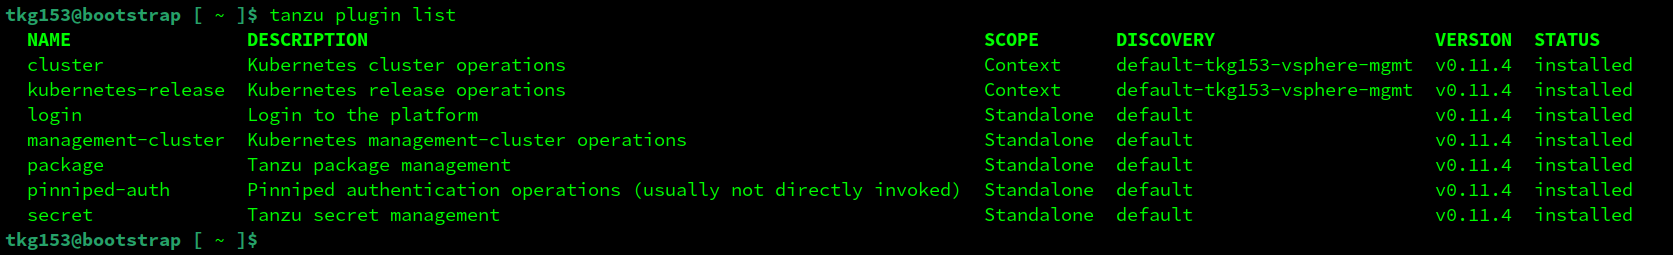
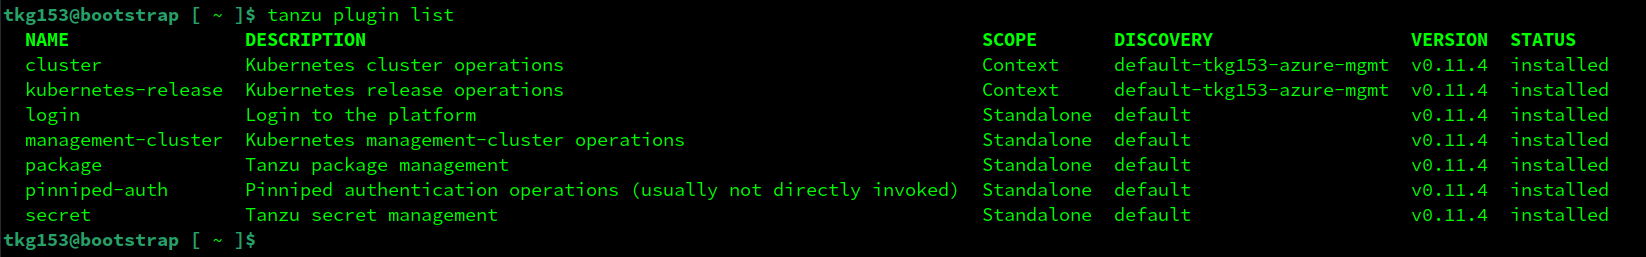
Updated

diff --git a/tkgm/vsphere/README.md b/tkgm/vsphere/README.md
@@ -279,15 +279,17 @@ Confirm that `cert-manager` is available in your *workload* cluster
 
 `tanzu package available list -A`
 
-Retrieve the available version(s) of the `cert-manager` package
+Retrieve the version of the available `cert-manager` package
 
 `tanzu package available list cert-manager.tanzu.vmware.com -A`
 
-![](images/cert-mgr-avail-versions.png)
+![](images/tanzu-package-avail-cert-manager-list.png)
 
 Install `cert-manager` copy/paste the `package-name` and `version` from the output of the commands in the previous steps
 
-`tanzu package install cert-manager --package-name cert-manager.tanzu.vmware.com --version 1.5.3+vmware.2-tkg.1  --namespace tkg-system`
+`tanzu package install cert-manager --package-name cert-manager.tanzu.vmware.com --version 1.5.3+vmware.2-tkg.1 --namespace tkg-system`
+
+![](images/tanzu-package-cert-mgr-install.png)
 
 Confirm that `cert-manager` is installed correctly ( status: `Reconcile succeeded` )
 
@@ -318,11 +320,13 @@ Retrieve the version of the available `contour` package
 
 `tanzu package available list contour.tanzu.vmware.com -A`
 
-![](images/contour-available-versions.png)
+![](images/tanzu-package-avail-contour-list.png)
 
 Install `contour` copy/paste the `package-name` and `version` from the output of the commands in the previous steps
 
 `tanzu package install contour --package-name contour.tanzu.vmware.com --version 1.18.2+vmware.1-tkg.1 --values-file contour-data-values.yaml --namespace tkg-system`
+
+![](images/tanzu-package-contour-install.png)
 
 Confirm that `contour` is installed correctly ( status: `Reconcile succeeded` )
 
@@ -340,7 +344,9 @@ NOTE:
 
 `Harbor` is a cloud-native container registry that stores, signs, and scans content. `Harbor` extends the open-source Docker distribution by adding the functionalities usually required by users such as security and identity control and management.
 
-*Note: Packages `contour` and `cert-manager` are prerequisites for `harbor`*
+*Note: Packages `contour` and `cert-manager` are prerequisites for `harbor`. Make sure the steps for installing `contour` and `cert-manager` were executed prior to installing `harbor`.*
+
+*Note: Make sure that the VM type which is used for the _workload_ cluster supports _Premium Storage_ ( https://docs.microsoft.com/en-us/azure/virtual-machines/premium-storage-performance ) _and_ has sufficient max. number of allowed disks ( See: notes at the end of this chapter )*
 
 Confirm that the Harbor package is available in the cluster:
 
@@ -350,14 +356,14 @@ Retrieve the version of the available package:
 
 `tanzu package available list harbor.tanzu.vmware.com -A`
 
-![](images/harbor-available-versions.png)
+![](images/tanzu-package-avail-harbor-list.png)
 
 Open file `harbor-data-values.yaml` and update the following parameters:
 - `harborAdminPassword`
-- `secretKey` ( Must be a string of 16 chars )
+- `secretKey`
 - `database.password`
 - `core.secret`
-- `core.xsrfKey` ( Must be a string of 32 chars )
+- `core.xsrfKey`
 - `jobservice.secret`
 - `registry.secret`
 - `hostname`
@@ -365,6 +371,8 @@ Open file `harbor-data-values.yaml` and update the following parameters:
 Install harbor by executing the following command
 
 `tanzu package install harbor --package-name harbor.tanzu.vmware.com --version 2.3.3+vmware.1-tkg.1 --values-file /path/to/harbor-data-values.yaml --namespace=harbor --create-namespace`
+
+![](images/tanzu-package-harbor-install.png)
 
 Use `kubectl -n harbor get pods` to monitor if all the `harbor` related pods start up correctly.
 
@@ -392,7 +400,7 @@ Get the `EXTERNAL-IP` of the loadbalancer through which the `harbor` service is 
 
 Add the `EXTERNAL-IP` to your `dns` or to the hosts file of your client machine
 
-`192.168.1.195	harbor.tanzu.local`
+`51.138.183.74	harbor.tanzu.local`
 
 Point the browser on the client machine to `http://harbor.tanzu.local/`
 
@@ -402,6 +410,7 @@ Also see: https://docs.vmware.com/en/VMware-Tanzu-Kubernetes-Grid/1.5/vmware-tan
 
 
 NOTE:
+- When pods remain in `Pending` state ( `kubectl get pods -n harbor` ), do a describe of the `Pending` pod ( in this example the pod is `harbor-trivy-0` but it can be any pod in the `harbor` namespace ) using `kubectl describe harbor-trivy-0 -n harbor`. If there are messages like `0/2 nodes are available: 1 node(s) exceed max volume count, 1 node(s) had taint {node-role.kubernetes.io/master: }, that the pod didn't tolerate.`, the VM chosen for the cluster nodes _probably_ doesn't have enough `Max data disks` ( for example, a `Standard_D2s_v3` allows a max. of `4` data disks ( See: https://docs.microsoft.com/en-us/azure/virtual-machines/dv3-dsv3-series#dsv3-series ). Choose a larger VM to allow more data disks ( see: https://docs.microsoft.com/en-us/azure/virtual-machines/ ). For example, a `Standard_D4s_v4` which allows `16` data disks appears to be working pretty well with `harbor`. Make sure that the VM type supports _Premium Storage_ ( https://docs.microsoft.com/en-us/azure/virtual-machines/premium-storage-performance )
 - For debugging purposes, the package can be deleted as follows: `tanzu package installed delete harbor --namespace [NAMESPACE]`
 - To monitor the state, use command like: `kubectl get app/harbor -n [NAMESPACE] -o jsonpath="{.status.usefulErrorMessage}"` or `kubectl get app/harbor -n [NAMESPACE] -o jsonpath="{.status.deploy.stdout}"` or `kubectl get deployment -n [NAMESPACE]` or `kubectl get pods -n [NAMESPACE]`
 
@@ -409,10 +418,21 @@ NOTE:
 
 ### Deploy `nginx`
 
+Add *workload* cluster to the kubeconfig.
+
+`tanzu cluster kubeconfig get mkennis-azure-tkg-workload --admin`
+
+Check if the *workload* cluster was added to the kubeconfig.
+
+`kubectl config get-contexts`
+
+Switch to the *workload* cluster.
+
+`kubectl config use-context mkennis-azure-tkg-workload-admin@mkennis-azure-tkg-workload`
+
 Copy the following files to the linux (virtual)machine:
 - `nginx-deployment.yaml`
 - `nginx-service.yaml`
-- `nginx-ingress.yaml`
 
 ... and execute the following commands:
 
@@ -430,29 +450,17 @@ Confirm that `nginx` deployment was successfully ( `1/1` under `READY` ).
 
 `kubectl apply -f nginx-service.yaml`
 
-Confirm that the `nginx-service` service was created successfully.
+Confirm that the `nginx-service` service was created successfully ( when there's a `IP` instead of `<pending>` in column `EXTERNAL-IP` ).
 
 `kubectl get services`
 
 ![](images/kubectl-get-services.png)
 
-`kubectl get ingress`
-
-`kubectl apply -f nginx-ingress.yaml`
-
-Confirm that the `nginx-ingress` ingress was created successfully.
-
-`kubectl get ingress`
-
-![](images/kubectl-get-ingress.png)
-
-Add the `ip address` of the workernode to the hosts file of your client machine
-
-`192.168.1.195	nginx.tanzu.local`
-
-Point the browser on the client machine to `http://nginx.tanzu.local/`
+Point the browser on the client machine to the `IP` of the service ( it may take a while for the service to respond the first time ).
 
 ![](images/nginx-welcome.png)
+
+NOTE: In the `azure` console under `network security groups` there are two `nsg`'s created per management/workload cluster ( a node-`nsg` and a controlplane-`nsg` ). After deploying a `service` of type `LoadBalancer`, automatically an entry in the node-`nsg` for the `workload` cluster is created to expose the service to the internet.
 
 Also see: https://docs.vmware.com/en/VMware-Tanzu-Kubernetes-Grid/
 
@@ -462,7 +470,7 @@ Also see: https://docs.vmware.com/en/VMware-Tanzu-Kubernetes-Grid/
 
 Delete the *management* cluster using the following command ( takes approx. 10 min. to complete )
 
-`tanzu management-cluster delete tkg-vsphere-mgmt-cluster -v 9`
+`tanzu management-cluster delete tkg-azure-mgmt-cluster -v 9`
 
 ---
 
@@ -470,12 +478,10 @@ Delete the *management* cluster using the following command ( takes approx. 10 m
 
 Delete the *workload* cluster using the following command
 
-`tanzu cluster delete mkennis-vsphere-tkg-workload -v 9`
+`tanzu cluster delete mkennis-azure-tkg-workload -v 9`
 
 ![](images/tanzu-delete-workload-cluster.png)
 
 The command returns the prompt immediately, deletion of the *workload* cluster takes place in the backgroud and can be monitored using 
 
 `tanzu cluster list --include-management-cluster`
-
-![](images/tanzu-delete-workload-cluster-progress.png)
